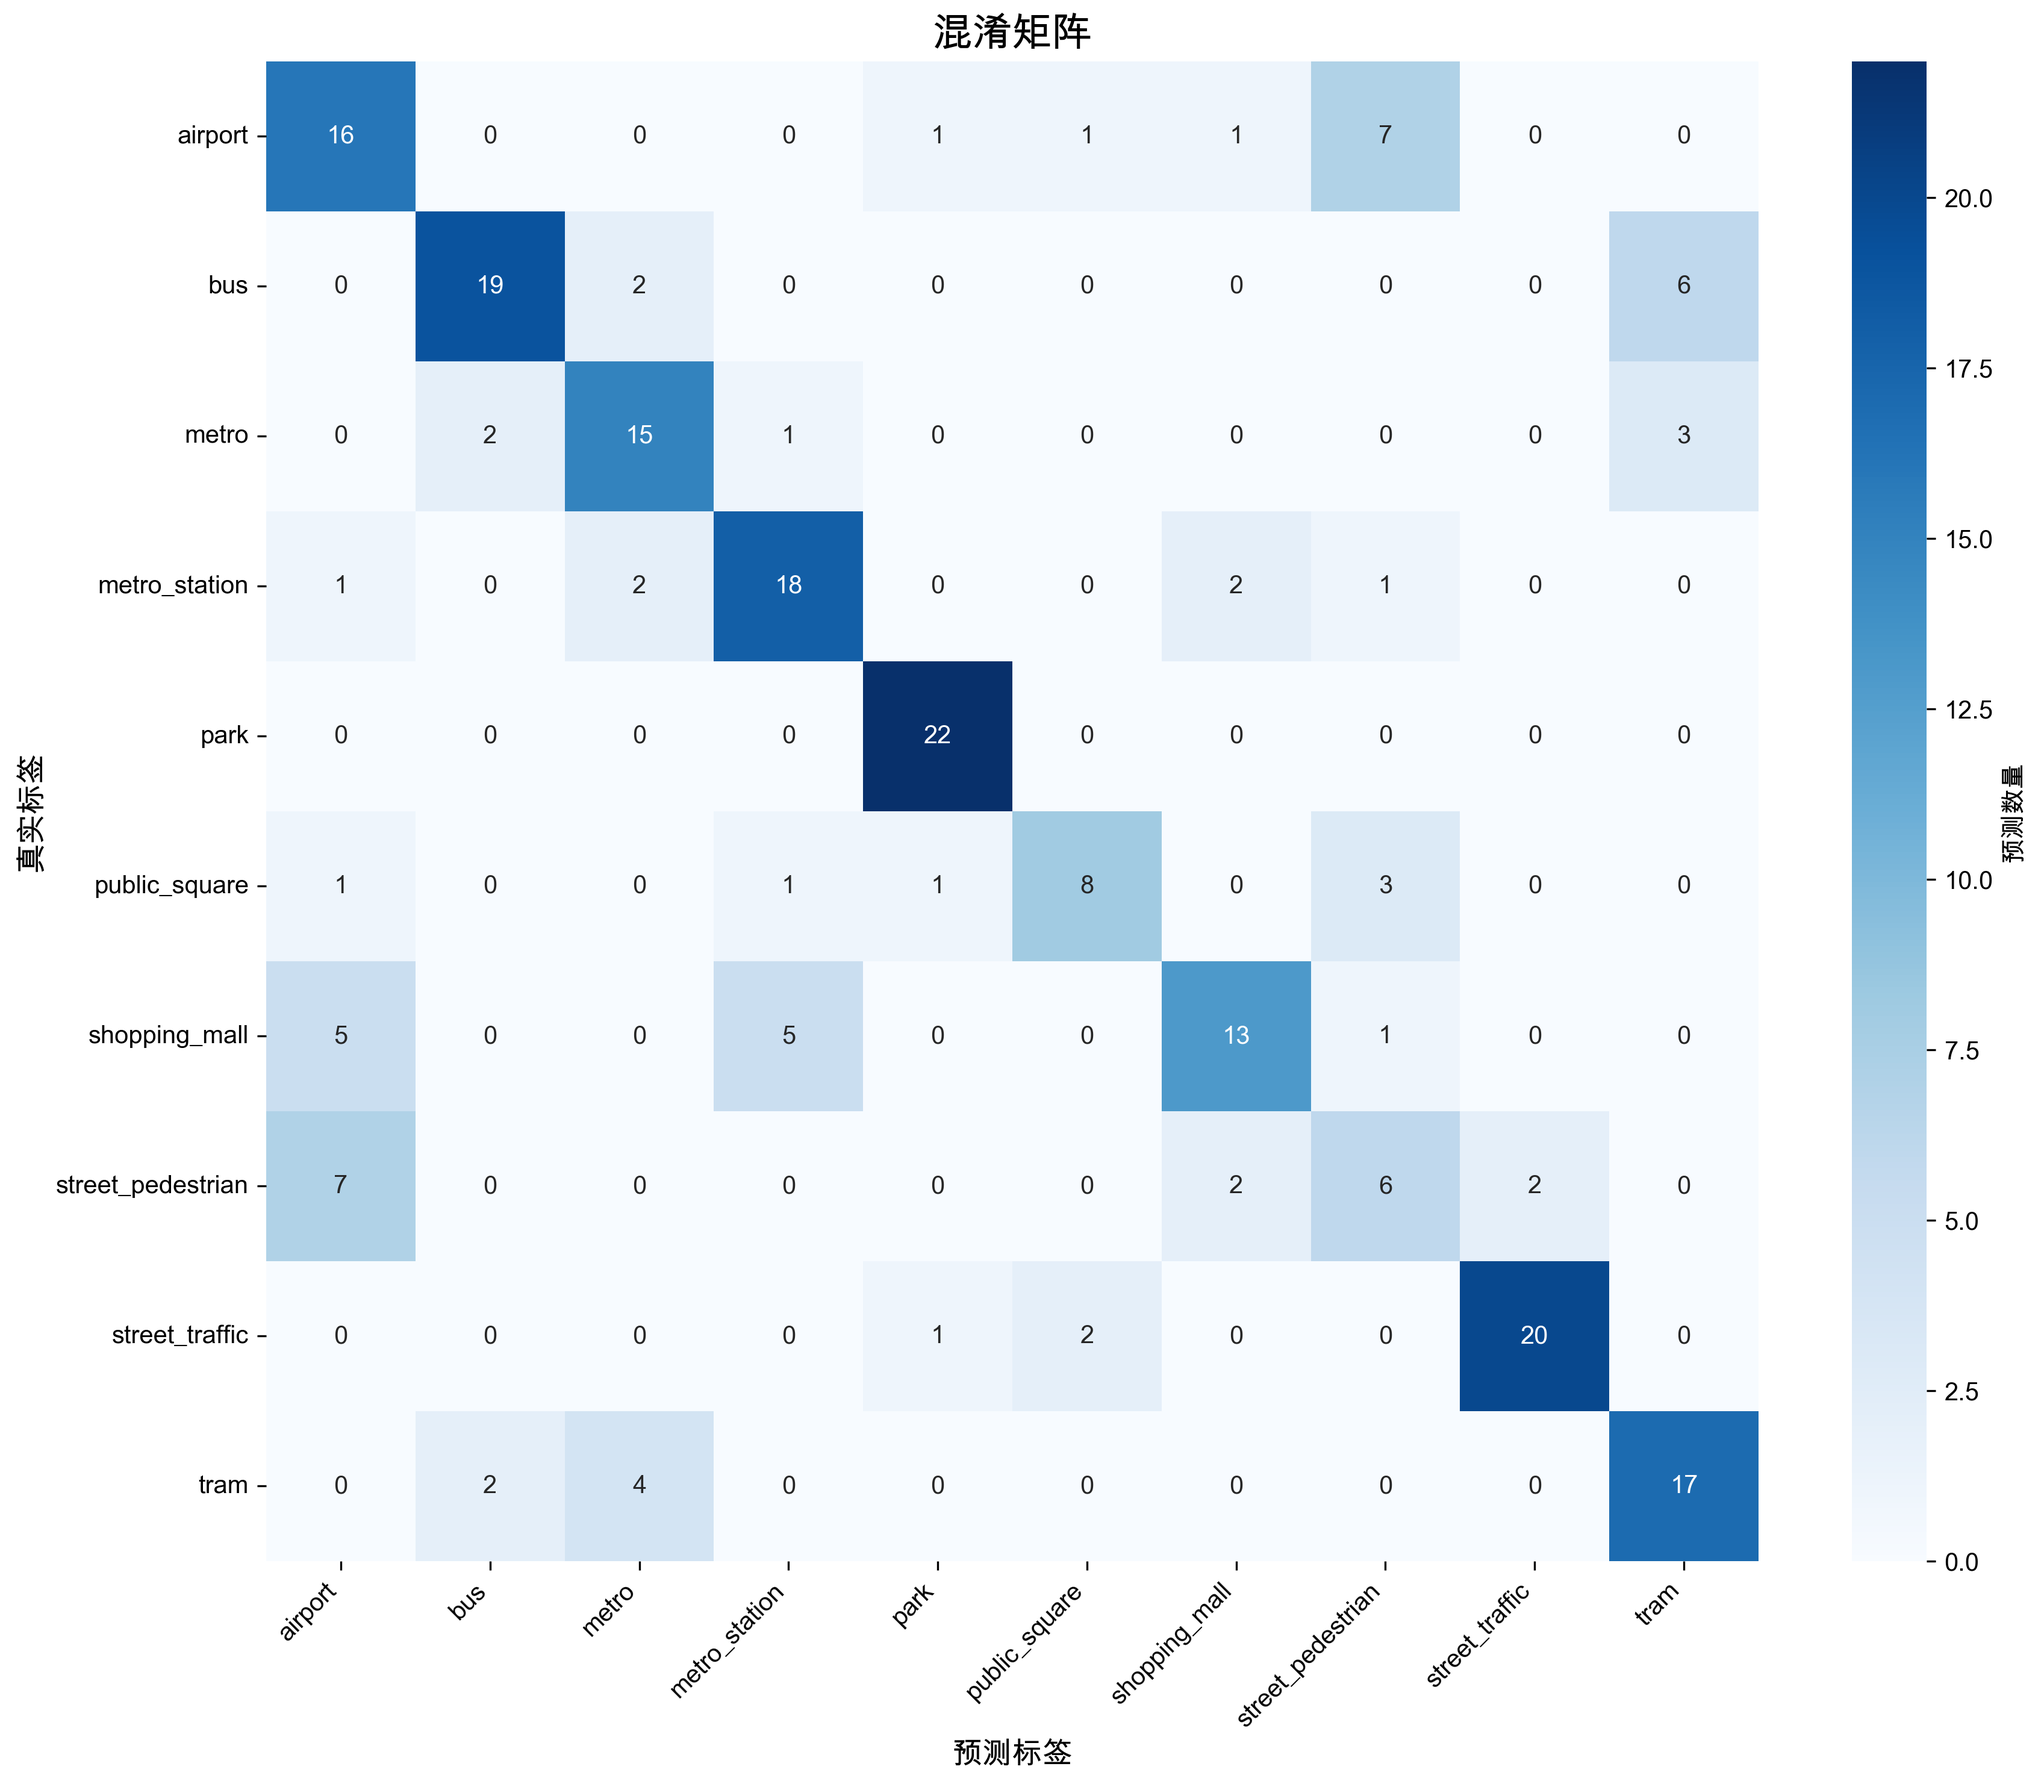
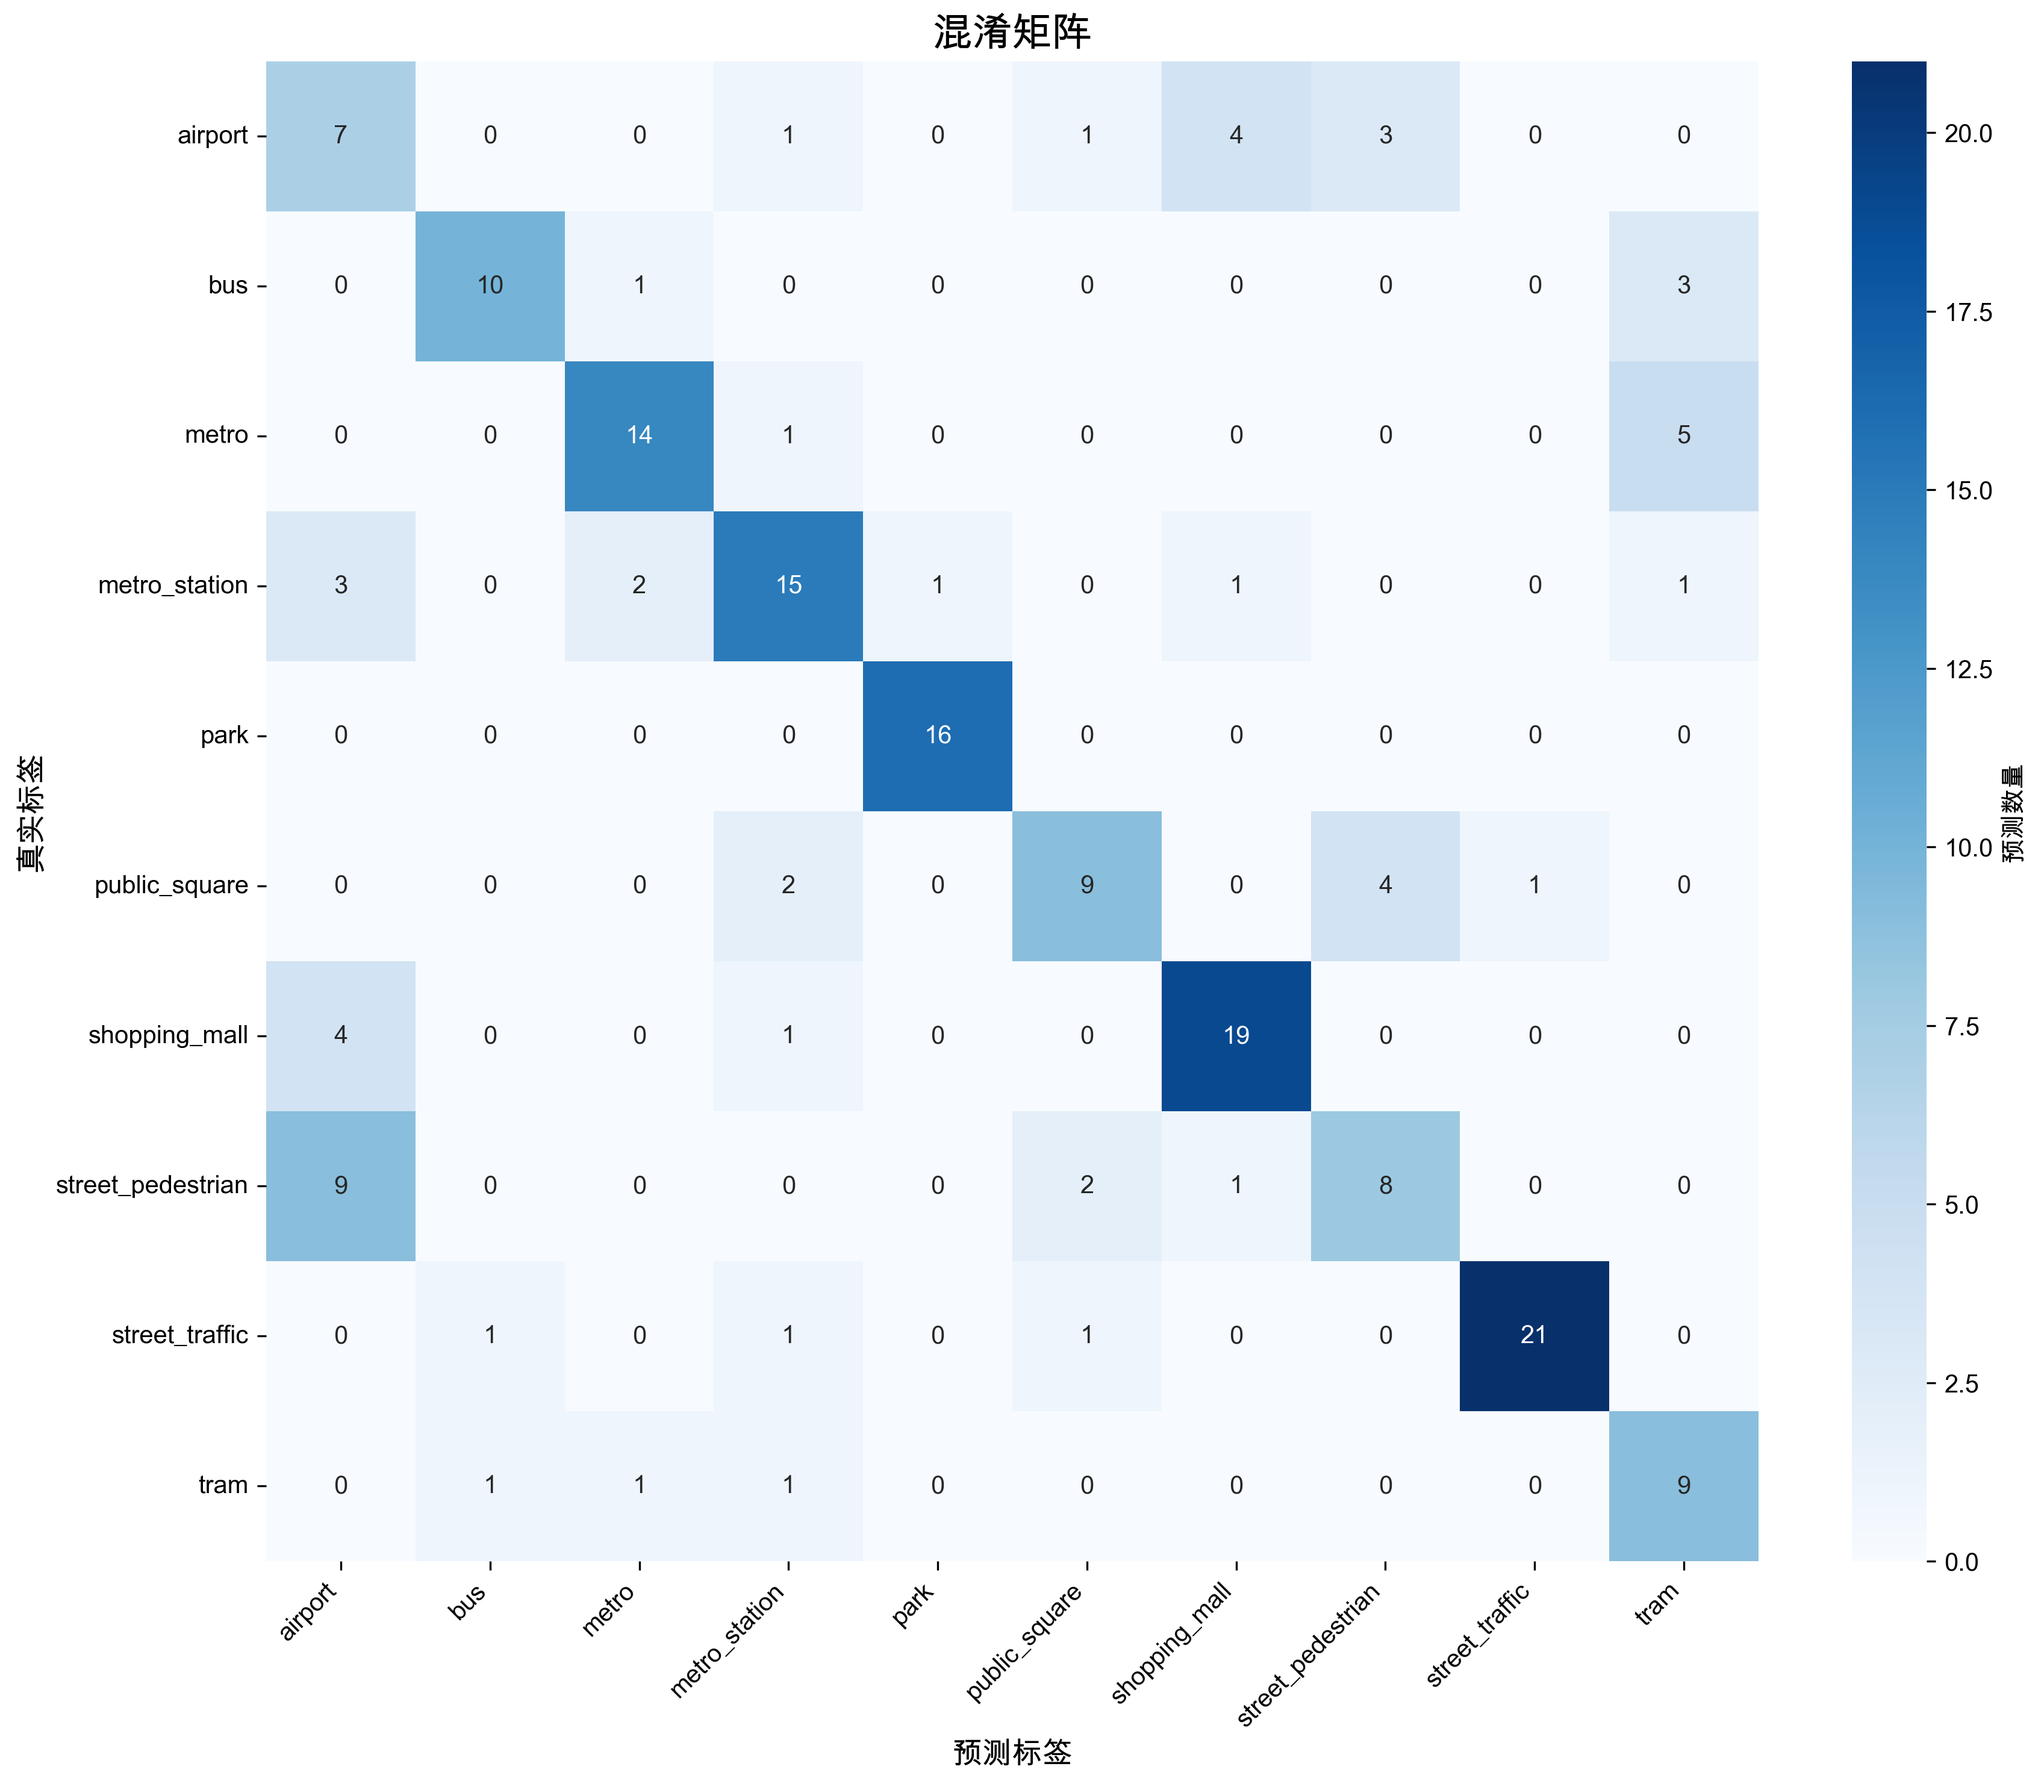
AE and AS env file

diff --git a/Qwen_ASweight_env.py b/Qwen_ASweight_env.py
@@ -1,0 +1,131 @@
+import numpy as np
+import pandas as pd
+import os
+from sklearn.model_selection import train_test_split
+from sklearn.preprocessing import StandardScaler
+from sklearn.decomposition import PCA
+from sklearn.svm import SVC
+from sklearn.metrics import accuracy_score, classification_report, confusion_matrix
+from tqdm import tqdm  # 引入进度条库
+import matplotlib.pyplot as plt
+import seaborn as sns
+plt.rcParams['font.sans-serif'] = ['SimHei', 'Arial Unicode MS']  # 支持中文显示
+plt.rcParams['axes.unicode_minus'] = False  # 正常显示负号
+
+# 读取 CSV
+csv_path = "./TAU-urban-acoustic-scenes-2019-development/meta.csv"
+df = pd.read_csv(csv_path,index_col=3, delimiter='\t')
+
+# 读取 npy 文件
+data_dir = "./new_Feature"
+X, y = [], []
+
+# 读取数据并加入进度条
+for file in tqdm(os.listdir(data_dir), desc="加载数据", unit="文件"):
+    if file.endswith(".npy") and file.find("AE") == -1:  # 确保文件名不包含 "AS"
+        file_path = os.path.join(data_dir, file)
+        filename_key = 'audio/'+file.replace(".npy", ".wav")  # 添加 .wav 后缀以匹配 CSV
+        filename_key = filename_key.replace("AS", "")  # 去掉AE以匹配 CSV 中的文件名
+
+        # 检查 filename_key 是否在 CSV 中
+        if filename_key in df["filename"].values:
+            X.append(np.load(file_path).flatten())  # 展平数据
+            y.append(df.loc[df["filename"] == filename_key, "scene_label"].values[0])
+
+# 转换为 numpy 数组
+X = np.array(X)
+y = np.array(y)
+
+# **添加数据检查**
+if len(X) == 0:
+    raise ValueError("没有加载任何数据，请检查 CSV 和 npy 文件名是否匹配！")
+
+# 数据集划分
+X_train, X_test, y_train, y_test = train_test_split(X, y, test_size=0.2, random_state=42)
+
+# 数据标准化
+scaler = StandardScaler()
+X_train = scaler.fit_transform(X_train)
+X_test = scaler.transform(X_test)
+
+# **加入 PCA**
+pca = PCA(n_components=0.95)  # 选 95% 的信息
+X_train = pca.fit_transform(X_train)
+X_test = pca.transform(X_test)
+
+# 训练 SVM
+svm_model = SVC(kernel="linear", C=1.0)
+
+# 使用 tqdm 显示训练的进度
+tqdm.write("开始训练模型...")
+svm_model.fit(X_train, y_train)  # 训练模型
+
+# 预测并显示进度
+tqdm.write("开始预测...")
+y_pred = []
+for i in tqdm(range(len(X_test)), desc="预测进度", unit="样本"):
+    y_pred.append(svm_model.predict([X_test[i]]))  # 逐个预测
+y_pred = np.array(y_pred).flatten()  # 转换为 numpy 数组
+
+# 计算准确率
+accuracy = accuracy_score(y_test, y_pred)
+print(f"SVM + PCA 分类准确率: {accuracy:.2f}")
+
+# 生成分类报告
+report = classification_report(y_test, y_pred, output_dict=True)
+
+# 将分类报告转换为 DataFrame
+report_df = pd.DataFrame(report).transpose()
+
+# 将分类报告保存为 CSV
+report_csv_path = "classification_PCA_AS_report.csv"
+report_df.to_csv(report_csv_path, index=True)
+
+print(f"分类报告已保存为 CSV 文件：{report_csv_path}")
+
+# 生成混淆矩阵
+cm = confusion_matrix(y_test, y_pred)
+print(f"\n混淆矩阵:\n{cm}")
+
+# 获取类别标签
+class_labels = sorted(np.unique(y))
+
+# 创建混淆矩阵的 DataFrame
+cm_df = pd.DataFrame(cm, index=class_labels, columns=class_labels)
+
+# 保存混淆矩阵为 CSV
+cm_csv_path = "AS_confusion_matrix.csv"
+cm_df.to_csv(cm_csv_path, index=True)
+print(f"混淆矩阵已保存为 CSV 文件：{cm_csv_path}")
+
+# 可视化混淆矩阵
+plt.figure(figsize=(12, 10))
+sns.heatmap(cm_df, annot=True, fmt='d', cmap='Blues', 
+            cbar_kws={'label': '预测数量'})
+plt.title('混淆矩阵', fontsize=16, fontweight='bold')
+plt.xlabel('预测标签', fontsize=12)
+plt.ylabel('真实标签', fontsize=12)
+plt.xticks(rotation=45, ha='right')
+plt.yticks(rotation=0)
+plt.tight_layout()
+
+# 保存混淆矩阵图
+cm_plot_path = "confusion_matrix.png"
+plt.savefig(cm_plot_path, dpi=300, bbox_inches='tight')
+print(f"混淆矩阵图已保存为：{cm_plot_path}")
+plt.show()
+
+# 计算并显示每个类别的准确率
+class_accuracy = cm.diagonal() / cm.sum(axis=1)
+print(f"\n各类别准确率:")
+for i, label in enumerate(class_labels):
+    print(f"{label}: {class_accuracy[i]:.2f}")
+
+# 保存各类别准确率
+class_acc_df = pd.DataFrame({
+    'Class': class_labels,
+    'Accuracy': class_accuracy
+})
+class_acc_csv_path = "AS_class_accuracy.csv"
+class_acc_df.to_csv(class_acc_csv_path, index=False)
+print(f"各类别准确率已保存为 CSV 文件：{class_acc_csv_path}")

diff --git a/Qwen_AEweight_env.py b/Qwen_AEweight_env.py
@@ -22,7 +22,7 @@ X, y = [], []
 
 # 读取数据并加入进度条
 for file in tqdm(os.listdir(data_dir), desc="加载数据", unit="文件"):
-    if file.endswith(".npy"):
+    if file.endswith(".npy") and file.find("AS") == -1:  # 确保文件名不包含 "AS"
         file_path = os.path.join(data_dir, file)
         filename_key = 'audio/'+file.replace(".npy", ".wav")  # 添加 .wav 后缀以匹配 CSV
         filename_key = filename_key.replace("AE", "")  # 去掉AE以匹配 CSV 中的文件名
@@ -78,7 +78,7 @@ report = classification_report(y_test, y_pred, output_dict=True)
 report_df = pd.DataFrame(report).transpose()
 
 # 将分类报告保存为 CSV
-report_csv_path = "classification_PCA_report.csv"
+report_csv_path = "classification_PCA_AE_report.csv"
 report_df.to_csv(report_csv_path, index=True)
 
 print(f"分类报告已保存为 CSV 文件：{report_csv_path}")
@@ -110,7 +110,7 @@ plt.yticks(rotation=0)
 plt.tight_layout()
 
 # 保存混淆矩阵图
-cm_plot_path = "confusion_matrix.png"
+cm_plot_path = "AE_confusion_matrix.png"
 plt.savefig(cm_plot_path, dpi=300, bbox_inches='tight')
 print(f"混淆矩阵图已保存为：{cm_plot_path}")
 plt.show()
@@ -126,6 +126,6 @@ class_acc_df = pd.DataFrame({
     'Class': class_labels,
     'Accuracy': class_accuracy
 })
-class_acc_csv_path = "class_accuracy.csv"
+class_acc_csv_path = "AE_class_accuracy.csv"
 class_acc_df.to_csv(class_acc_csv_path, index=False)
 print(f"各类别准确率已保存为 CSV 文件：{class_acc_csv_path}")
